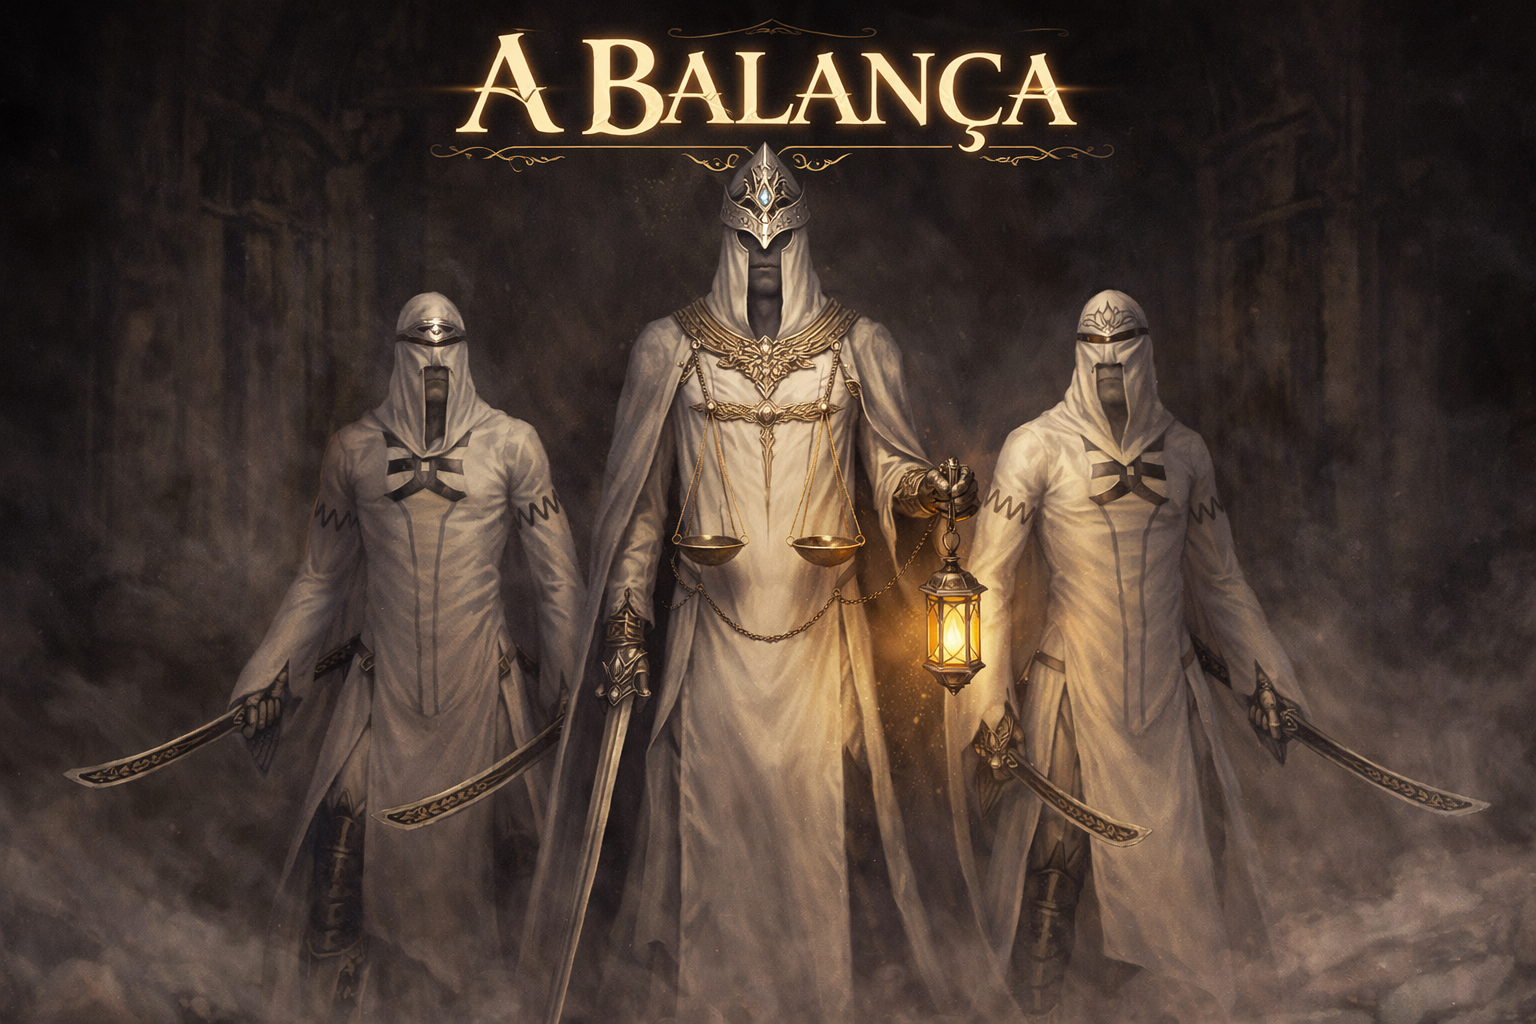
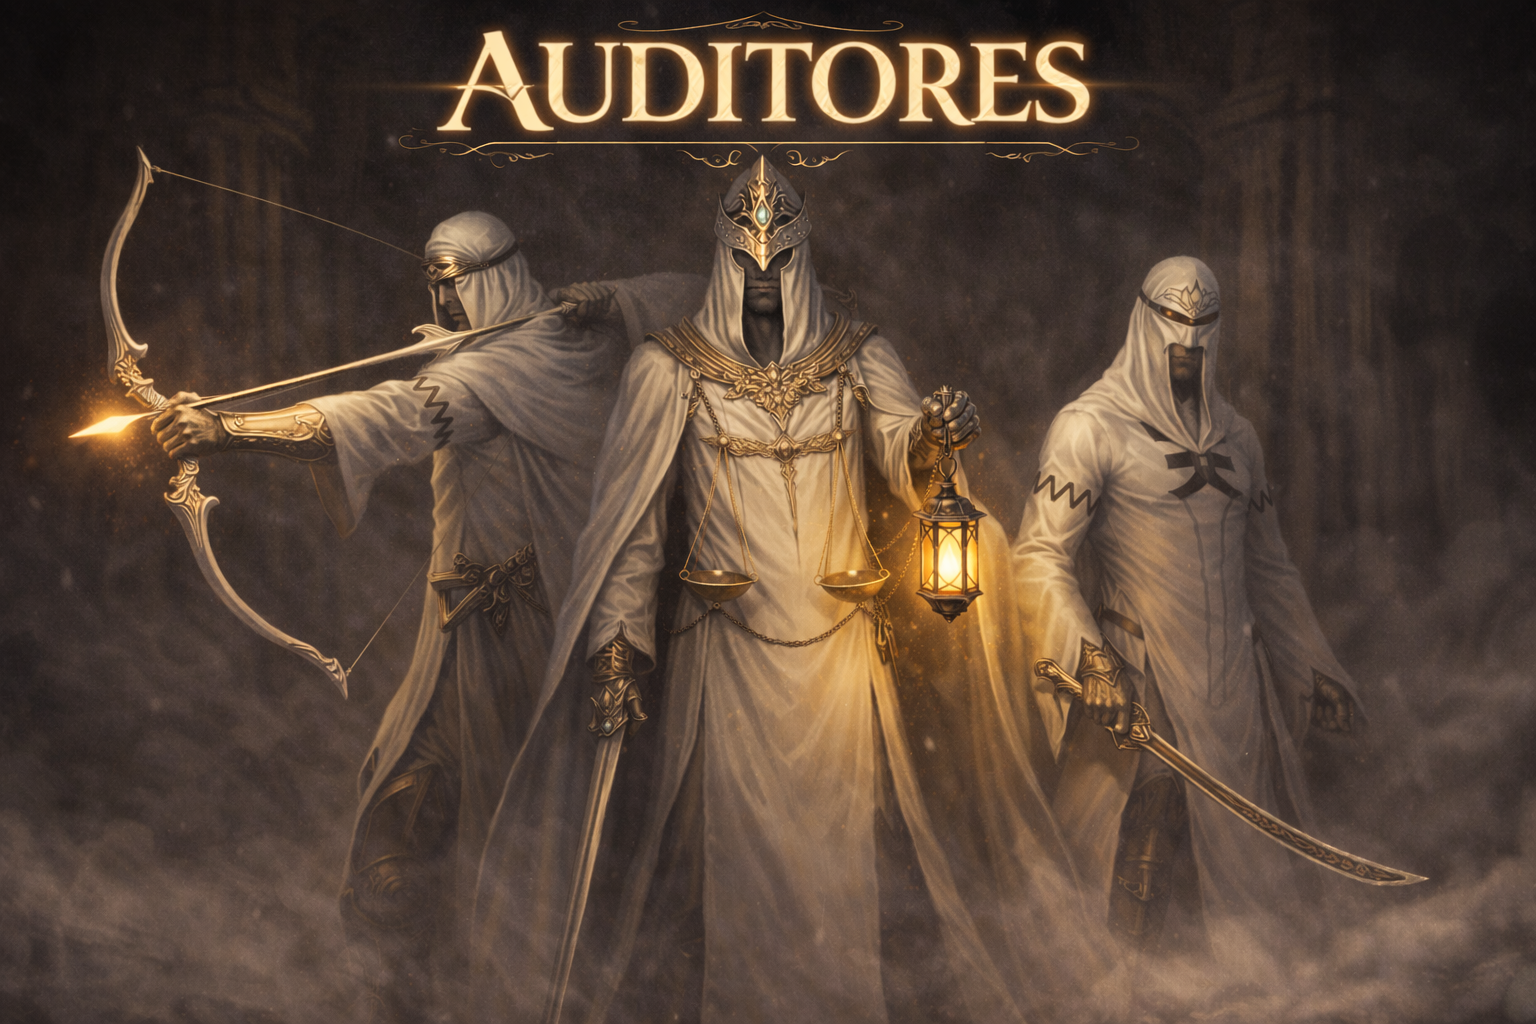
solarys 0.1.3

diff --git a/Solarys/room3.html b/Solarys/room3.html
@@ -64,6 +64,9 @@
           <div class="enemy-option" data-img="Sol-Assets/Turnos/enemies/General Varok.png">General Varok</div>
           <div class="enemy-option" data-img="Sol-Assets/Turnos/enemies/Eccho.png">Eccho</div>
           <div class="enemy-option" data-img="Sol-Assets/Turnos/enemies/Cervo de Loren.png">Cervo de Loren</div>
+          <div class="enemy-option" data-img="Sol-Assets/Turnos/enemies/Balança.png">Balança</div>
+          <div class="enemy-option" data-img="Sol-Assets/Turnos/enemies/Diamantes de Gelo.png">Diamantes de Gelo</div>
+          <div class="enemy-option" data-img="Sol-Assets/Turnos/enemies/O Mimico.png">O Mimico</div>
         </div>
       </div>
 
@@ -234,8 +237,8 @@
     </div>
   </div>
 
-  <div class="map-section collapsed">
-    <h4>Capítulo 2: Jornada ▾</h4>
+    <div class="map-section collapsed">
+    <h4>Capítulo 2: Jornada Parte 1 ▾</h4>
     <div class="map-section-content">
       <div class="map-option" data-bg="Solarys Capítulo II.png">
         Capítulo II
@@ -294,6 +297,12 @@
       <div class="map-option" data-bg="Apodrecida.png">
         Grande Madeira Apodrecida
       </div>
+    </div>
+  </div>
+
+  <div class="map-section collapsed">
+    <h4>Capítulo 2: Jornada Parte 2 ▾</h4>
+    <div class="map-section-content">
       <div class="map-option" data-bg="Doran.png">
         Doran
       </div>
@@ -351,11 +360,20 @@
       <div class="map-option" data-bg="Entrada de Drenfall.png">
         Entrada de Drenfall
       </div>
+      <div class="map-option" data-bg="Oficina de Vamos.png">
+        Oficina de Vamos
+      </div>
+      <div class="map-option" data-bg="Primeira Passagem de Drenfall.png">
+        Primeira Passagem de Drenfall
+      </div>
+      <div class="map-option" data-bg="Colapso de Drenfall.png">
+        Colapso de Drenfall
+      </div>
 
     </div>
   </div>
   <div class="map-section collapsed">
-    <h4>Capítulo 4:  ▾</h4>
+    <h4>Capítulo 4: Fantasmas ▾</h4>
     <div class="map-section-content">
       <div class="map-option" data-bg="Solarys Capítulo IV.png">
         Capítulo IV
@@ -365,10 +383,13 @@
   </div>
 
     <div class="map-section collapsed">
-    <h4>Capítulo 5:  ▾</h4>
+    <h4>Capítulo 5: Carnificina ▾</h4>
     <div class="map-section-content">
       <div class="map-option" data-bg="Solarys Capítulo V.png">
         Capítulo V
+      </div>
+      <div class="map-option" data-bg="Carnífice.png">
+        Carnífice
       </div>
 
     </div>

diff --git a/Solarys/Sol-JS/Sol-Music.js b/Solarys/Sol-JS/Sol-Music.js
@@ -80,6 +80,11 @@ const playlist = [
         cover: "Sol-Assets/Sol-Music/Grande Madeira Apodrecida.png"
       },
       {
+        name: "Balança",
+        src: "Sol-Assets/Sol-Music/Balança.mp3",
+        cover: "Sol-Assets/Sol-Music/Balança.png"
+      },
+      {
         name: "Pedrafria",
         src: "Sol-Assets/Sol-Music/Pedrafria.mp3",
         cover: "Sol-Assets/Sol-Music/Pedrafria.png"
@@ -123,6 +128,11 @@ const playlist = [
         name: "Naath, Caçadora do Inverno",
         src: "Sol-Assets/Sol-Music/Naath.mp3",
         cover: "Sol-Assets/Sol-Music/Naath.png"
+      },
+      {
+        name: "Drenfall",
+        src: "Sol-Assets/Sol-Music/Drenfall.mp3",
+        cover: "Sol-Assets/Sol-Music/Drenfall.png"
       },
     ]
   },